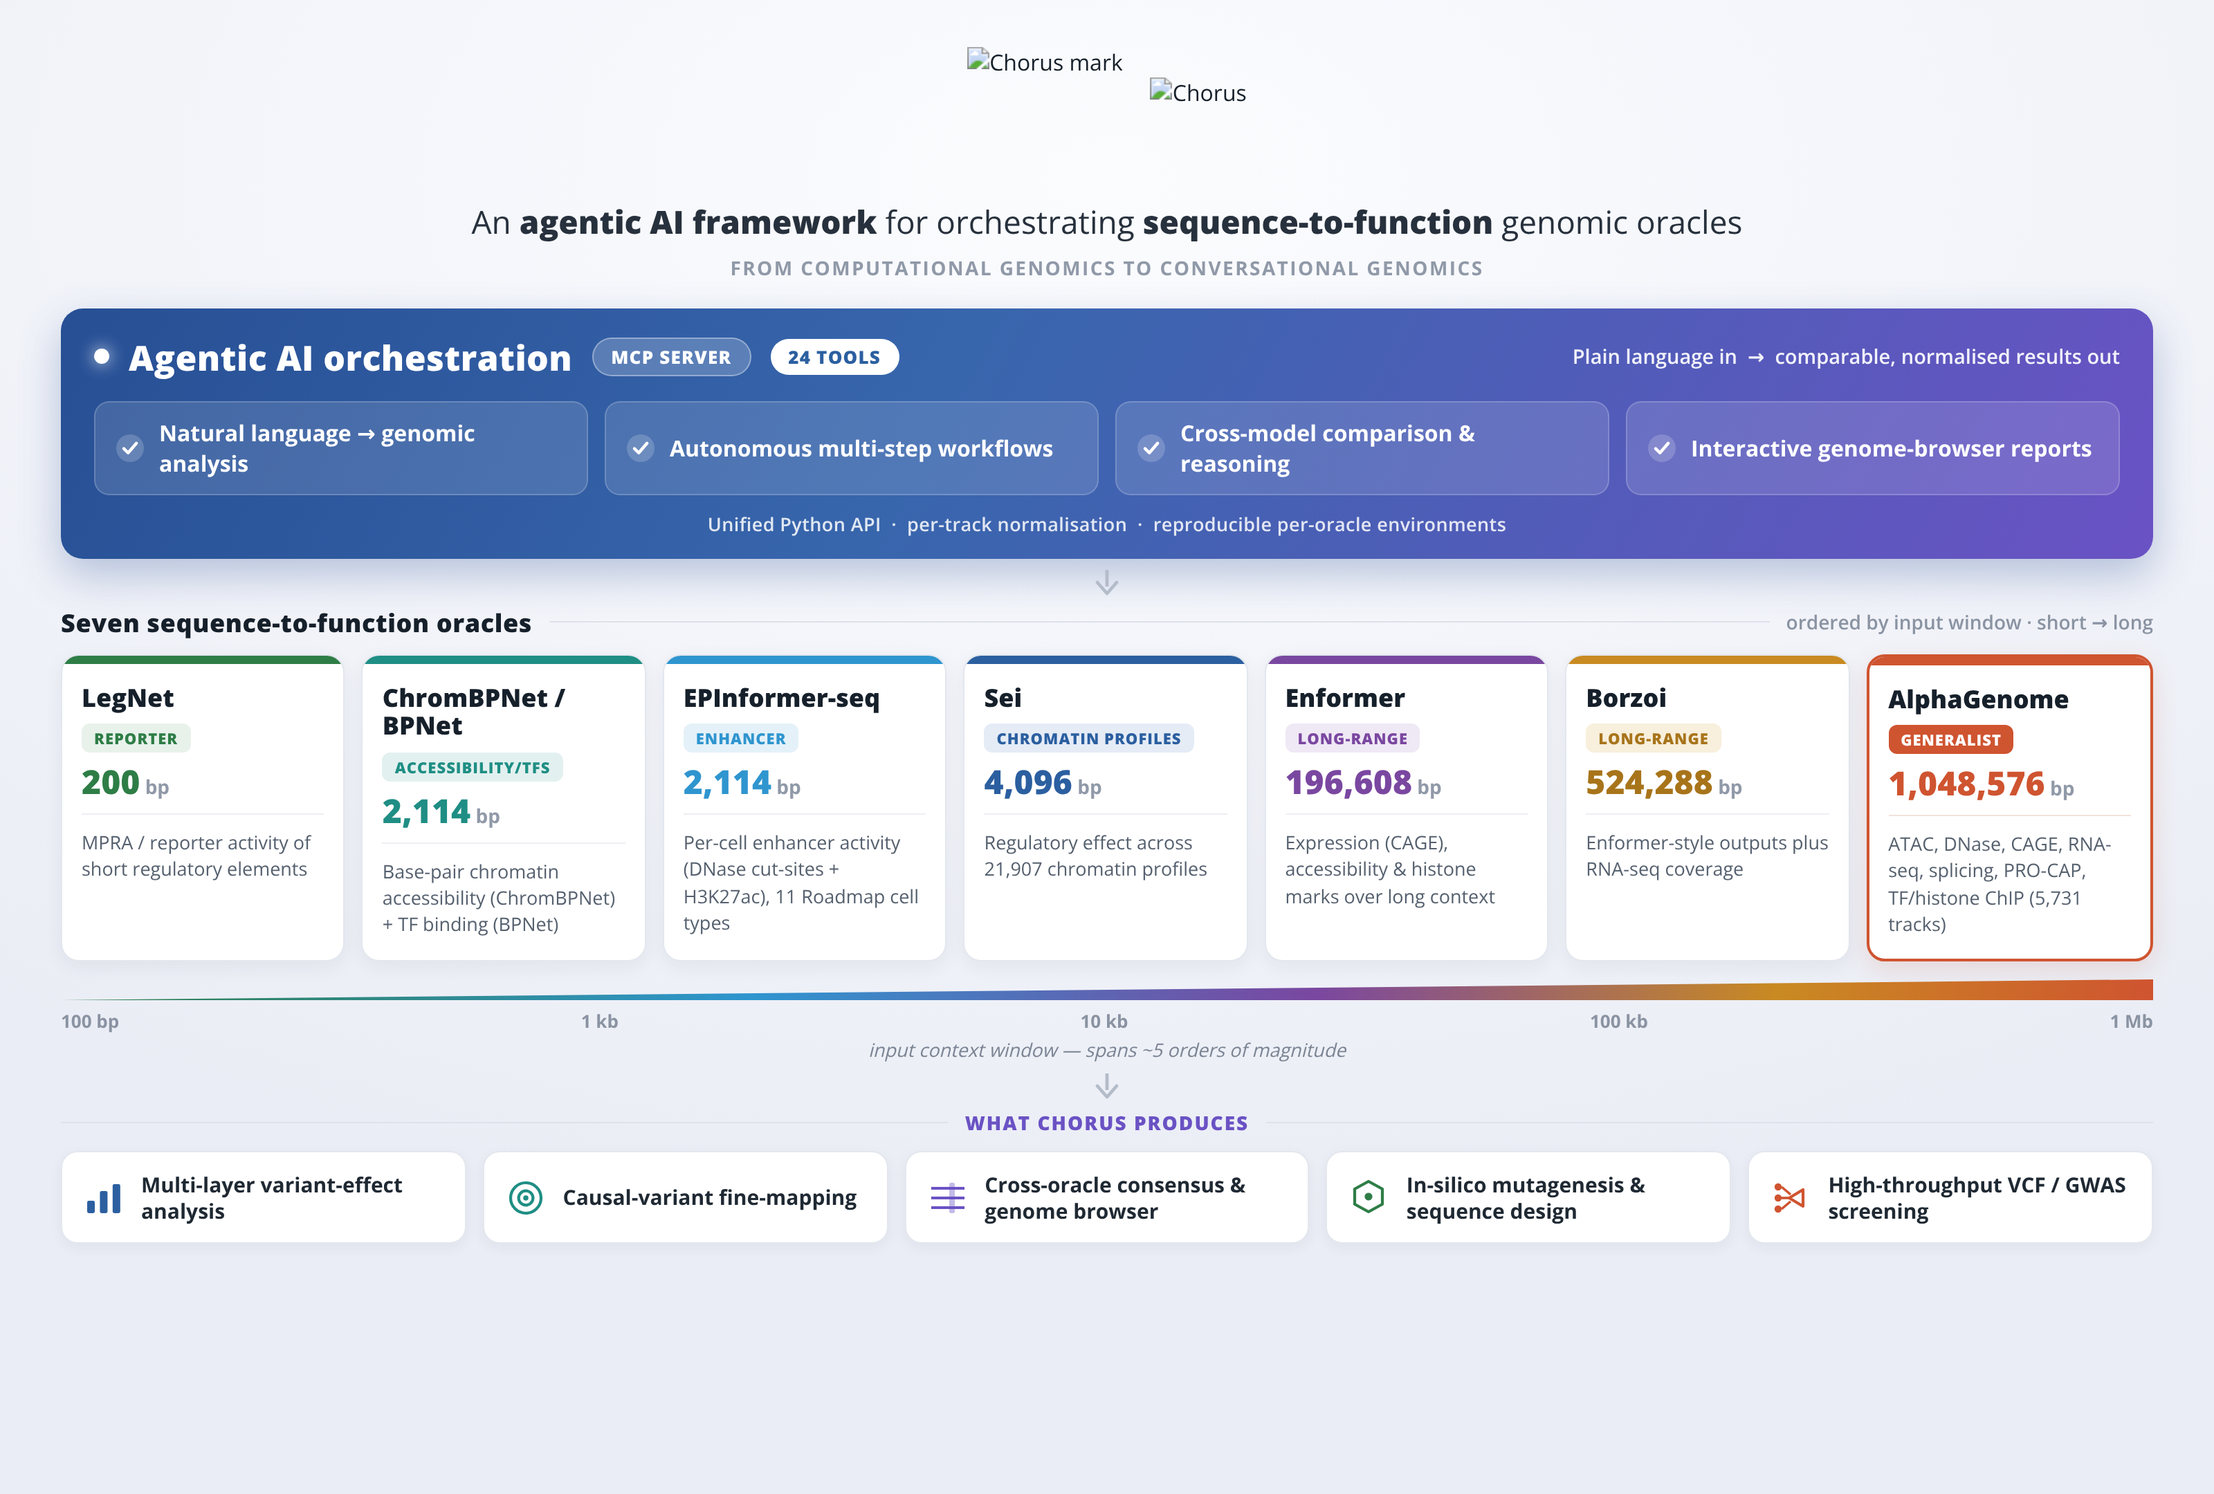
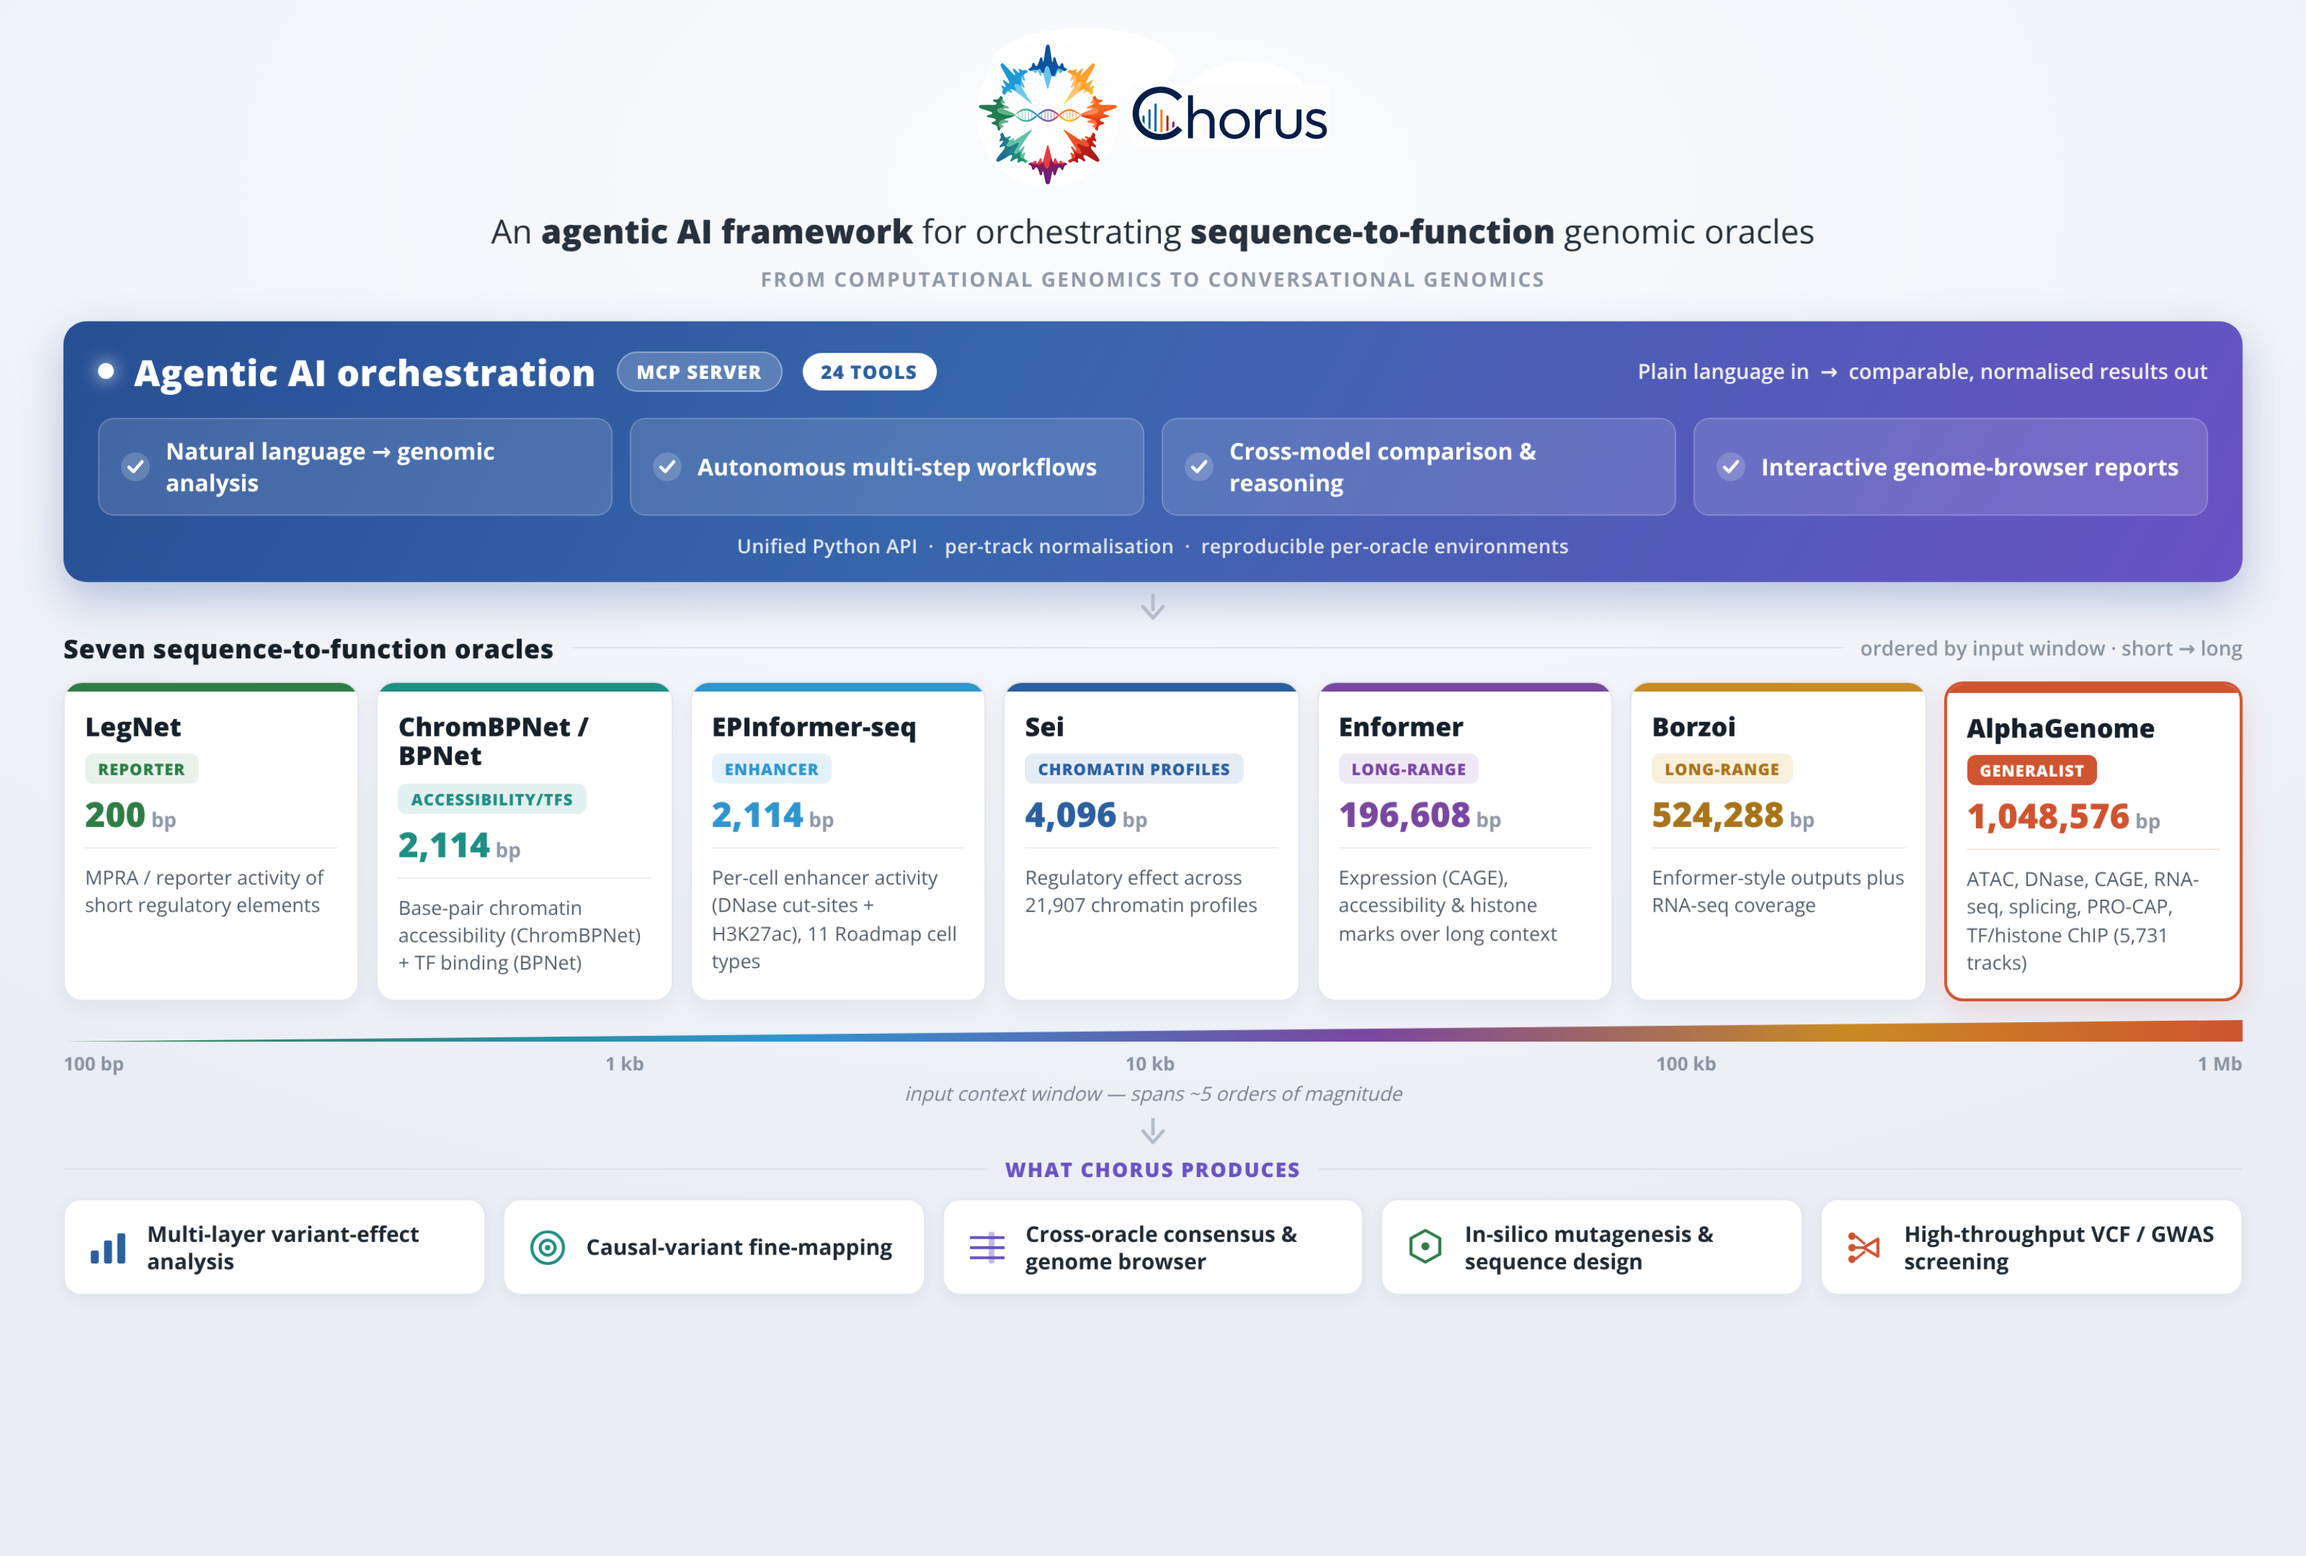
Added EPInformer-seq explanation, fixed minors in the text. Corrected architecture figure.

diff --git a/content/blogs/2026-010/index.md b/content/blogs/2026-010/index.md
@@ -24,7 +24,7 @@ editor: ""
 tags: ["genomics", "seq2func", "variant-interpretation", "foundation-models", "AlphaGenome", "MCP", "agentic-AI"]
 categories: ["Blog Post"]
 scope: ["insights", "tutorials"]
-audience: ["intro-to-field"]
+audience: ["intro-to-field", "general"]
 disciplines: ["Sequence-to-Function Modeling"]
 labs: ["Pinello Lab"]
 status: "submitted"
@@ -63,18 +63,12 @@ We are also honest about where the predictions fall short: effect sizes come out
 
 ## Motivation
 
-
-One important link between theoretical biology and personalized medicine is predicting the effects of regulatory variants. Unfortunately, this task cannot be addressed directly because only a small number of regulatory variant effects have been measured in a consistent and reliable way.
-Therefore, the field has largely adopted a zero-shot approach. A sequence-to-function (seq2func) model is trained to predict molecular readouts directly from DNA sequence, such as chromatin accessibility, transcription factor binding, gene expression, or splicing. After that, to estimate the effect of a genetic variant, the model is run twice: once on the reference sequence and once on the sequence containing the variant. The difference between the two predictions is used as the predicted variant effect. In other words, it estimates how much the mutation changes regulatory activity of the region.
-
-
-
 Interpreting noncoding variants is one of the central problems in human genetics: most GWAS associations and a large share of disease-relevant variants lie outside coding regions, making it difficult to understand how they influence biology. 
 
 One important link between theoretical biology and personalized medicine is predicting the effects of regulatory variants. Unfortunately, this task cannot be addressed directly because only a small number of regulatory variant effects have been measured in a consistent and reliable way.
 Therefore, the field has largely adopted a zero-shot approach. A sequence-to-function (seq2func) model is trained to predict molecular readouts directly from DNA sequence, such as chromatin accessibility, transcription factor binding, gene expression, or splicing. After that, to estimate the effect of a genetic variant, the model is run twice: once on the reference sequence and once on the sequence containing the variant. The difference between the two predictions is used as the predicted variant effect. In other words, it estimates how much the mutation changes regulatory activity of the region.
 
-Models like [Enformer](https://www.nature.com/articles/s41592-021-01252-x), [Borzoi](https://github.com/calico/borzoi), [ChromBPNet/BPNet](https://github.com/kundajelab/chrombpnet), [Sei](https://github.com/FunctionLab/sei-framework), [LegNet](https://github.com/autosome-ru/LegNet), [EPInformer-seq](https://github.com/pinellolab/EPInformer/blob/main/EPInformer/epinformer_seq_v2.py) and [AlphaGenome](https://www.nature.com/articles/s41586-025-10014-0) can now predict chromatin accessibility, transcription factor binding, gene expression, histone modifications, and splicing directly from DNA sequence across hundreds of cell types. Using them together, however, has remained surprisingly difficult.
+Models like [Enformer](https://www.nature.com/articles/s41592-021-01252-x), [Borzoi](https://github.com/calico/borzoi), [ChromBPNet/BPNet](https://github.com/kundajelab/chrombpnet), [Sei](https://github.com/FunctionLab/sei-framework), [LegNet](https://github.com/autosome-ru/LegNet), [EPInformer](https://www.nature.com/articles/s41467-026-70535-8) and [AlphaGenome](https://www.nature.com/articles/s41586-025-10014-0) can now predict chromatin accessibility, transcription factor binding, gene expression, histone modifications, and splicing directly from DNA sequence across hundreds of cell types. Using them together, however, has remained surprisingly difficult.
 
 
 <!-- > *Side note:* a seq2func model learns a direct mapping from DNA sequence to one or more measured molecular readouts (accessibility, binding, expression, and so on). Train it on the genome and you can then ask it about sequences the genome never contained, which is exactly what variant interpretation needs. -->
@@ -106,11 +100,13 @@ These seven oracles span a wide range of context windows and resolutions, which 
 |---|---|---|---|
 | **ChromBPNet / BPNet** | 2,114 bp | 1 bp | Chromatin accessibility (ChromBPNet) and TF binding (BPNet) at base-pair resolution |
 | **LegNet** | 200 bp | element-level | MPRA / reporter activity of short regulatory elements |
-| **EPInformer-seq** | 2,114 bp | 1 bp (DNase/H3K27ac); element-level (DNase–H3K27ac composite) | Compact per-cell enhancer activity (DNase cut-sites + H3K27ac) across 11 Roadmap cell types |
+| **EPInformer (EPInformer-seq implementation)** | 2,114 bp* | 1 bp (DNase/H3K27ac); element-level (DNase–H3K27ac composite) | Compact per-cell enhancer activity (DNase cut-sites + H3K27ac) across 11 Roadmap cell types |
 | **Sei** | 4,096 bp | region-level | Regulatory effect across 21,907 chromatin profiles |
 | **Enformer** | 196,608 bp | 128 bp | Expression (CAGE), accessibility, histone marks across long context |
 | **Borzoi** | 524,288 bp | 32 bp | Enformer-style outputs plus RNA-seq coverage |
 | **AlphaGenome** | 1,048,576 bp | 1 bp | Generalist: ATAC, DNase, CAGE, RNA-seq, splicing, PRO-CAP, and ChIP for histones and TFs (5,731 tracks) |
+
+*Chorus uses the [EPInformer-seq implementation](https://github.com/pinellolab/EPInformer/blob/main/EPInformer/epinformer_seq_v2.py), which accepts a single 2,114-bp sequence as input and predicts DNase and H3K27ac profiles over the central 1,024 bp. This differs from the original EPInformer architecture, which predicts gene-expression taking a promoter together with candidate enhancers spanning a broader (~100 kb) regulatory context.
 
 There is one more piece that makes cross-model work honest. Raw model outputs are not comparable: a "+1.3" from one track means something different from a "+1.3" from another. Chorus scores every prediction against a per-track genome-wide background (built from thousands of random variants and genomic sites), turning a raw log2 fold-change into two interpretable numbers: an **effect percentile** (how unusual this variant's effect is relative to random SNPs, an approac inspired by the one used in AlphaGenome paper)  and an **activity percentile** (how active the site is to begin with). For the genome-browser view, the same backgrounds rescale every track onto one shared display axis, where 1.0 marks roughly the top one percent of bins genome-wide and 0 sits at a per-layer activity floor. After this normalisation, effects and signals become comparable across cell types, variants, tracks, and oracles, and the browser can show every oracle's reference and alternate signal on a single axis.
 
